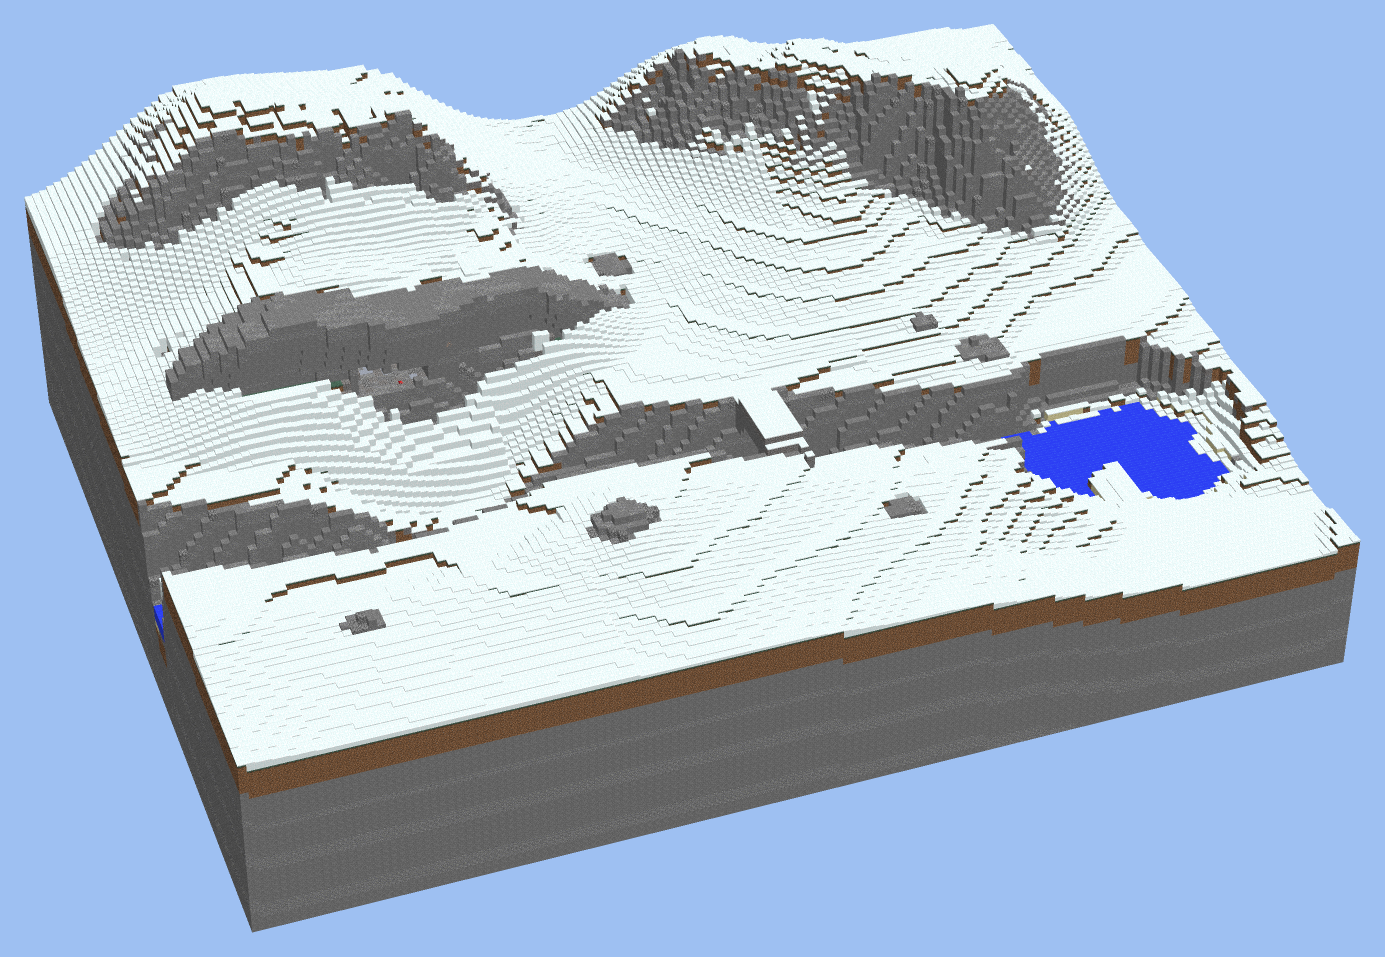
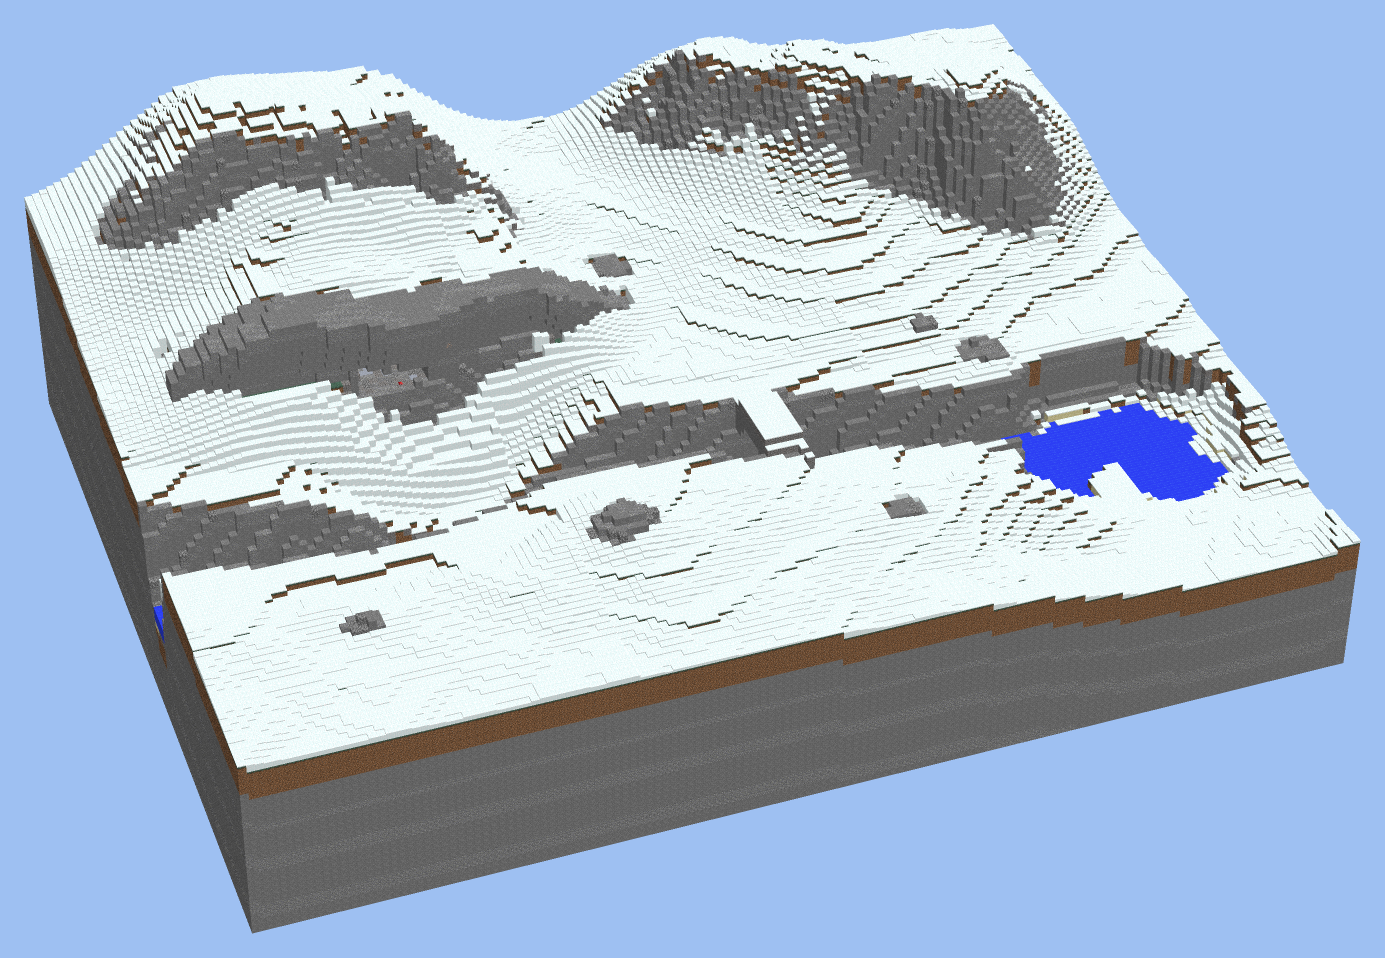
pgmvox: smooth snow takes a jitter on its added height
jitter adds smooth noise of that many blocks to the added height, in
patches jitter_cell across, so a flat field's eighths no longer run in
ruled contours. The winter sheet uses 0.3 in patches of six. Test and
LAYER-DOCUMENT line; every recorded hash holds.

Claude-Session: https://claude.ai/code/session_01SkxaMovP21NqxJRVezmVa6

diff --git a/freeform/lib/pgmvox/surface/terrain.py b/freeform/lib/pgmvox/surface/terrain.py
@@ -394,7 +394,7 @@ def cloud_deck(w, y, mask=None, seed=7, cell=14, puff=9, breaks=-0.25, materials
 
 
 def smooth_snow(w, smoothness=6, mask=None, on=None, added=0.4, overlay=False, max_depth=None, layer=(B.SNOW_LAYER, 0),
-                full=(B.SNOW, 0), under=None, keep=()):
+                full=(B.SNOW, 0), under=None, keep=(), jitter=0.0, jitter_cell=5, seed=0):
     """Smooth snow, after Arceon's //smoothsnow: the surface (the top of each column's highest solid block, as a
     height in blocks) averaged over a disc `smoothness` blocks across its radius, `added` blocks laid on it, and
     the difference to the real surface filled with snow in eighths: whole blocks of `full` up to the last whole
@@ -404,7 +404,8 @@ def smooth_snow(w, smoothness=6, mask=None, on=None, added=0.4, overlay=False, m
     `mask` (a boolean world-grid array) and `on` (block ids the column's top must be) say where it falls; nothing
     falls in water, on a block in `keep` or where the top is not solid. A column whose smoothed surface lies under
     its own still takes one eighth, so no masked column is bare. `overlay` lays only the layer, never a whole block;
-    `max_depth` caps the drift in blocks. `under` (id, data) replaces the top block it lies on (a grass under snow
+    `max_depth` caps the drift in blocks. `jitter` adds smooth noise of that many blocks (either way) to `added`,
+    in patches about `jitter_cell` across, so a flat field's eighths do not run in ruled contours. `under` (id, data) replaces the top block it lies on (a grass under snow
     the game draws snowy by itself, so it is rarely needed). Returns the number of columns covered."""
     from scipy import ndimage
     from pgmvox.core.blocks import PASSABLE
@@ -425,6 +426,10 @@ def smooth_snow(w, smoothness=6, mask=None, on=None, added=0.4, overlay=False, m
     else:
         s = h.copy()
     target = s + added
+    if jitter:
+        from pgmvox.geom import noise as N
+        f = N.fbm(h.shape, jitter_cell, 2, seed=seed)
+        target = target + jitter * f / max(np.abs(f).max(), 1e-9)
     covered = 0
     for i, k in np.argwhere(has):
         t = int(top[i, k])

diff --git a/freeform/lib/tests/test_pgmvox.py b/freeform/lib/tests/test_pgmvox.py
@@ -1190,6 +1190,14 @@ class LayerLevels(unittest.TestCase):
         self.assertGreater(soft[2], hard[2])                                      # smoother drifts deeper
         self.assertTrue(all(v >= 0.125 for v in soft))                            # nothing bare
 
+    def test_smooth_snow_jitter_breaks_a_flat_field_into_varied_depths(self):
+        def depths(j):
+            w = self.build(self.doc(snow=[{"id": "s", "smoothness": 4, "added": 0.5, "on": ["GRASS"], "jitter": j,
+                                           "seed": 3}])).world
+            return {int(w.dat[i, 41, k]) for i in range(4, 44) for k in range(4, 44) if w.ids[i, 41, k] == B.SNOW_LAYER}
+        self.assertEqual(len(depths(0)), 1)                                       # flat ground: one depth
+        self.assertGreaterEqual(len(depths(0.3)), 3)                              # jittered: several
+
     def test_the_board_states_its_biome(self):
         b = self.build(dict(self.doc(), board=dict(self.doc()["board"], biome=12)))
         self.assertTrue((b.world.biome == 12).all())

diff --git a/freeform/lib/pgmvox/document/layers.py b/freeform/lib/pgmvox/document/layers.py
@@ -963,7 +963,8 @@ def build(doc):
             e &= np.asarray(expr(L["where"], Ctx(X, Z, Hi.astype(float), fields, lines, land, water)), bool)
         n = T.smooth_snow(w, L.get("smoothness", 6), mask=e, on={block(b)[0] for b in L["on"]} if "on" in L else None,
                           added=L.get("added", 0.4), overlay=L.get("overlay", False), max_depth=L.get("max_depth"),
-                          under=block(L["under"]) if "under" in L else None)
+                          under=block(L["under"]) if "under" in L else None, jitter=L.get("jitter", 0.0),
+                          jitter_cell=L.get("jitter_cell", 5), seed=L.get("seed", bd.get("seed", 0)))
         out.steps.append(Step(L["id"], "snow", "smooth_snow", e.copy(), Hi.copy(), f"{n} columns covered"))
     if "biome" in bd:
         w.biome[:] = int(bd["biome"])

diff --git a/freeform/lib/boards/chantry-gill/assets/winter_spec.py b/freeform/lib/boards/chantry-gill/assets/winter_spec.py
@@ -17,7 +17,7 @@ doc["board"]["name"] = "Chantry Gill in winter"
 doc["board"]["biome"] = 12                                          # ice plains: grass and leaves tinted cold
 ON = ["GRASS", "DIRT", "GRAVEL", "SAND", "LEAVES"]                  # the mask, as //ss 7 grass: rock stays bare
 doc["snow"] = [
-    {"id": f"snow-{n}", "smoothness": sm, "added": ad, "on": ON, "max_depth": 4,
+    {"id": f"snow-{n}", "smoothness": sm, "added": ad, "on": ON, "max_depth": 4, "jitter": 0.3, "jitter_cell": 6, "seed": 30 + n,
      "where": {"and": [{"ge": ["x", x0]}, {"le": ["x", x1]}]}}
     for n, (x0, x1, sm, ad) in enumerate(((0, 45, 2, 0.2), (46, 92, 6, 0.4), (93, 139, 10, 0.6)))]
 json.dump(doc, open(os.path.join(HERE, "winter.layers.json"), "w"), indent=1)

diff --git a/analysis/freeform-vs-studio/LAYER-DOCUMENT.md b/analysis/freeform-vs-studio/LAYER-DOCUMENT.md
@@ -301,7 +301,8 @@ takes an eighth.
 
 **Where it falls is a mask.** `on` names the blocks it lies on, so rock stays bare where it is left out; `area` or
 `where` limit it, `overlay` keeps it to one block, `max_depth` caps a drift and `under` replaces the block it lies
-on. `board.biome` sets the biome every column takes, so grass and leaves under it are tinted cold.
+on. `jitter` adds smooth noise of that many blocks to `added`, in patches `jitter_cell` across, so a flat field's
+eighths do not run in ruled contours. `board.biome` sets the biome every column takes, so grass and leaves under it are tinted cold.
 
 ## Volume, structures and symmetry
 
